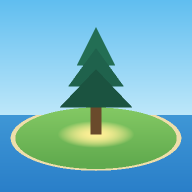
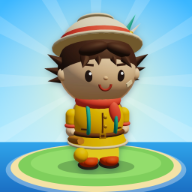
새 아이콘: 섬 위에 선 탐험가

diff --git a/index.html b/index.html
@@ -8,8 +8,8 @@
 <meta name="apple-mobile-web-app-status-bar-style" content="black-translucent">
 <meta name="apple-mobile-web-app-title" content="기후 탐험대">
 <meta name="theme-color" content="#0c1a2b">
-<link rel="manifest" href="manifest.json">
-<link rel="apple-touch-icon" href="icon-192.png">
+<link rel="manifest" href="manifest.json?v=2">
+<link rel="apple-touch-icon" href="icon-192.png?v=2">
 <title>기후 탐험대: 지도 탐험</title>
 <link rel="preconnect" href="https://fonts.googleapis.com">
 <link rel="preconnect" href="https://fonts.gstatic.com" crossorigin>
@@ -4485,13 +4485,13 @@ const CHAR_KEY = 'climate-char';
 let CHAR = null; try { CHAR = localStorage.getItem(CHAR_KEY); } catch (e) { /* 무시 */ }
 function charKind() { if (CHAR === 'f' || CHAR === 'm') return CHAR; const sc = who ? who.school : ($('recSchool').hidden ? '' : $('recSchool').value); return sc && !/여자/.test(sc) ? 'm' : 'f'; }
 /* 지금 내 탐험가 모습을 한 장 찍는다 */
-function plShot() {
+function plShot(sky, px) { /* sky·px 는 아이콘 같은 그림을 뽑을 때만 준다 */
   const p = R.pl.position, up = R.inner.position.y * 1.25; R.pl.visible = true; R.pl.rotation.y = 0.4;
   R.eyes.forEach(e => { e.scale.y = e.userData.sy; }); /* 눈을 뜬 모습으로 */
   /* 캐릭터(와 탈것)만 남기고 땅·나무·바다를 잠깐 감춘다 */
   const hid = []; R.scene.children.forEach(o => { if (o !== R.pl && !o.isLight && o.visible) { hid.push(o); o.visible = false; } });
   let url;
-  try { url = shoot({ w: 360, h: 360, fov: 28, sky: '#21405e', far: 500, at: [p.x, p.y + 1.5 + up * 0.5, p.z], pos: [p.x + 1.4 + up * 0.4, p.y + 2.3 + up * 0.7, p.z + 6.9 + up * 2.4] }); }
+  try { url = shoot({ w: px || 360, h: px || 360, fov: 28, sky: sky || '#21405e', far: 500, at: [p.x, p.y + 1.5 + up * 0.5, p.z], pos: [p.x + 1.4 + up * 0.4, p.y + 2.3 + up * 0.7, p.z + 6.9 + up * 2.4] }); }
   finally { hid.forEach(o => { o.visible = true; }); }
   return url;
 }
@@ -5069,7 +5069,7 @@ requestAnimationFrame(frame);
 /* ---------- 새 버전 확인 ----------
    브라우저가 옛 파일을 붙들고 있을 때가 있어서, 웹 주소로 열었을 때는 올라와 있는 버전 번호(version.json)를 물어보고
    지금 것과 다르면 새로 받아 온다. 게임을 고쳐 올릴 때는 아래 VERSION 과 version.json 을 같이 바꾼다. */
-const VERSION = '2026-11-26-70';
+const VERSION = '2026-11-26-71';
 $('verLine').textContent = '버전 ' + VERSION;
 if (location.protocol === 'http:' || location.protocol === 'https:') {
   const checkVersion = () => {
